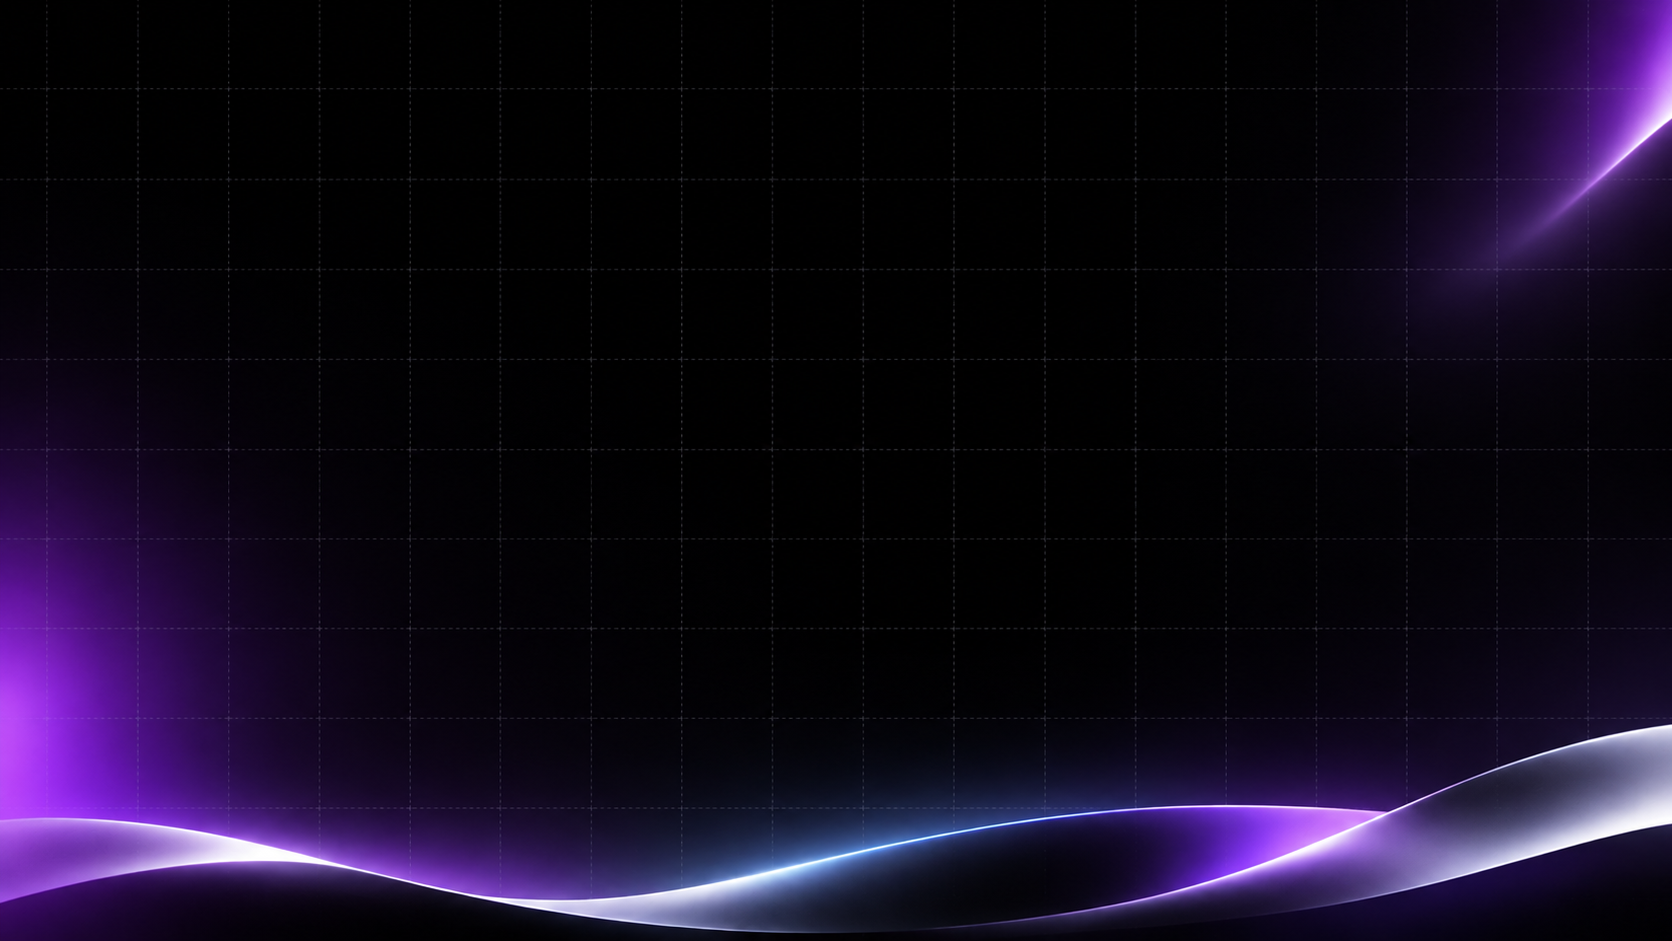
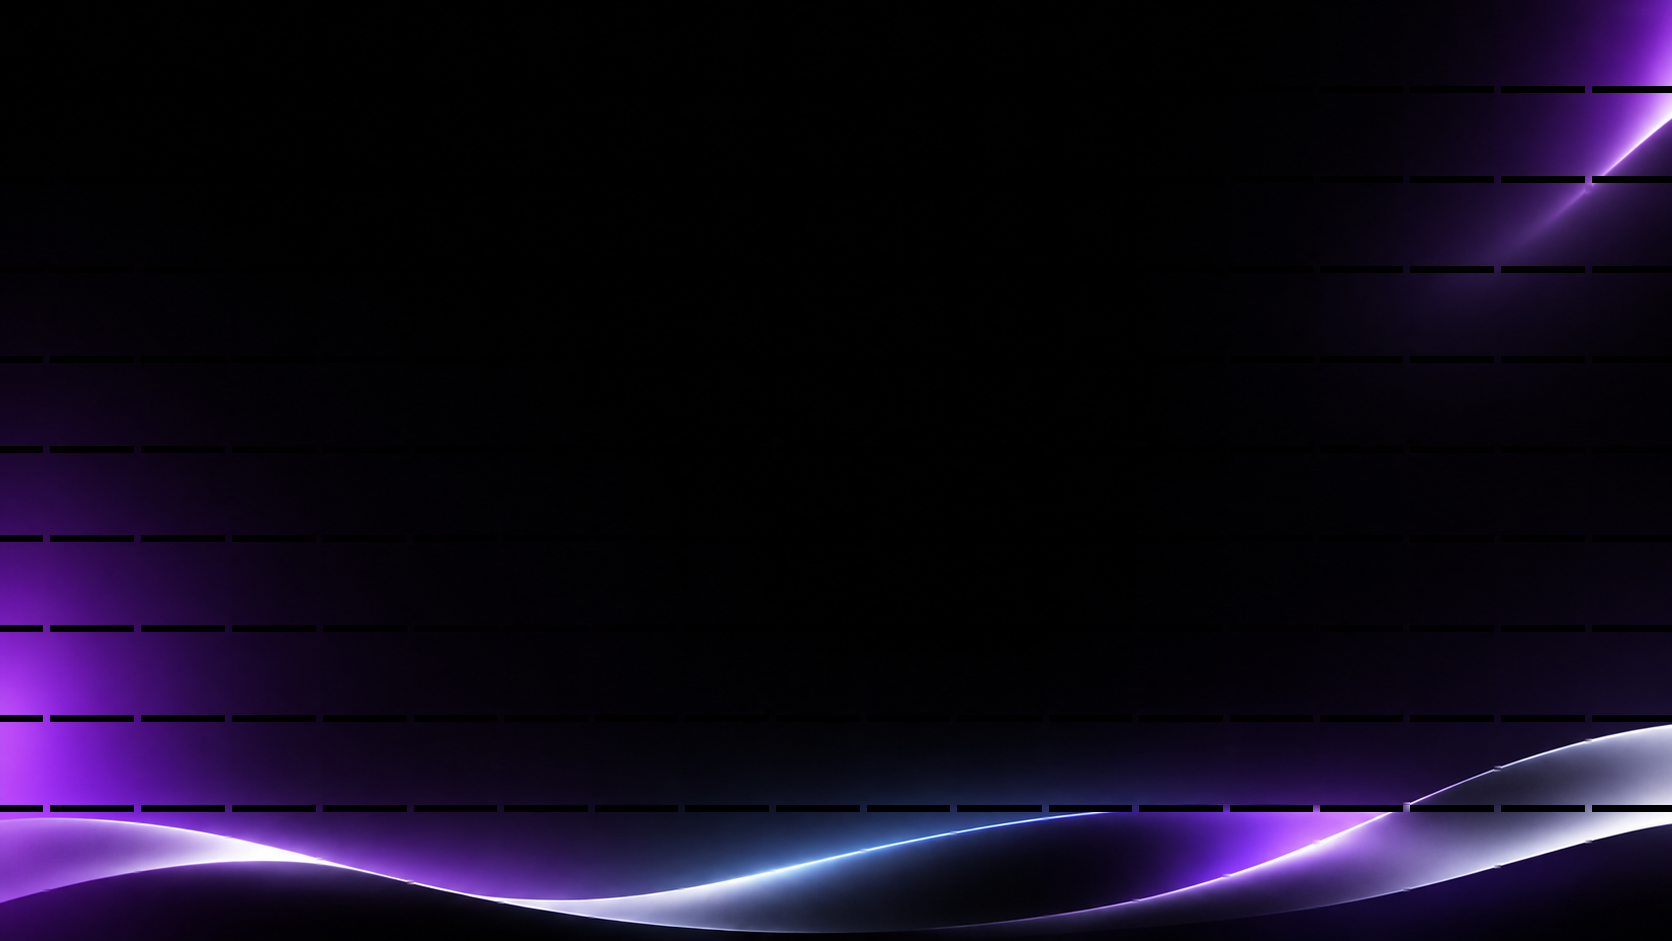
fix(hero): fit all hero elements on one screen without scroll and remove dotted square grid from bg.png

diff --git a/cinematic-experience/src/components/HeroSection.jsx b/cinematic-experience/src/components/HeroSection.jsx
@@ -126,7 +126,7 @@ export default function HeroSection({ onOpenExperience, onOpenTrial, onSelectInd
     <section
       id="home"
       ref={heroRef}
-      className="relative min-h-screen w-full flex flex-col justify-between items-center pt-32 pb-16 px-4 sm:px-6 md:px-8 overflow-hidden bg-[#050507]"
+      className="relative h-screen min-h-[600px] max-h-screen w-full flex flex-col justify-between items-center pt-20 pb-4 px-4 sm:px-6 md:px-8 overflow-hidden bg-[#050507]"
     >
       {/* 1. Underlying Metallic Wave Background (User provided bg.png) - Clean without square box grid */}
       <div
@@ -136,15 +136,15 @@ export default function HeroSection({ onOpenExperience, onOpenTrial, onSelectInd
         }}
       />
 
-      {/* 2. Central Hero Content Block */}
-      <div className="relative z-10 max-w-6xl w-full mx-auto flex flex-col items-center text-center mt-6 sm:mt-12 md:mt-16">
+      {/* 2. Central Hero Content Block (Vertically centered) */}
+      <div className="relative z-10 max-w-6xl w-full mx-auto my-auto flex flex-col items-center text-center">
         {/* Main Headline */}
         <h1
           ref={headlineRef}
           className="font-headline tracking-normal text-white uppercase text-center flex flex-col items-center justify-center select-none"
           style={{
-            lineHeight: "0.92",
-            fontSize: "clamp(2.75rem, 8vw, 7.5rem)",
+            lineHeight: "0.95",
+            fontSize: "clamp(2rem, 4.6vw, 4.5rem)",
           }}
         >
           {/* Line 1: WHATEVER YOUR INDUSTRY, */}
@@ -155,7 +155,7 @@ export default function HeroSection({ onOpenExperience, onOpenTrial, onSelectInd
           {/* Line 2: YOUR CUSTOMERS HAVE QUESTIONS. (Illuminated with radiant purple & electric blue bloom) */}
           <span
             ref={highlightRef}
-            className="block tracking-[0.02em] mt-1 sm:mt-2 text-glow-purple text-gradient-purple-blue"
+            className="block tracking-[0.02em] mt-1 sm:mt-1.5 text-glow-purple text-gradient-purple-blue"
           >
             YOUR CUSTOMERS HAVE QUESTIONS.
           </span>
@@ -164,7 +164,7 @@ export default function HeroSection({ onOpenExperience, onOpenTrial, onSelectInd
         {/* Supporting Copy */}
         <p
           ref={subtextRef}
-          className="mt-6 sm:mt-8 max-w-[820px] text-base sm:text-lg md:text-xl text-[#9898A6] font-normal leading-relaxed text-center"
+          className="mt-3 sm:mt-4 max-w-[760px] text-xs sm:text-sm md:text-base text-[#9898A6] font-normal leading-relaxed text-center"
         >
           Give every visitor a better way to connect with your business, get answers
           and discover what you offer — 24/7.
@@ -173,37 +173,37 @@ export default function HeroSection({ onOpenExperience, onOpenTrial, onSelectInd
         {/* CTA Buttons */}
         <div
           ref={ctaRef}
-          className="mt-8 sm:mt-10 flex flex-col sm:flex-row items-center justify-center gap-4 w-full sm:w-auto"
+          className="mt-5 sm:mt-6 flex flex-row items-center justify-center gap-3.5 w-auto"
         >
           {/* Primary CTA */}
           <button
             type="button"
             onClick={onOpenTrial}
-            className="w-full sm:w-auto px-8 py-4 rounded-full font-bold text-sm sm:text-base text-white btn-primary-gradient flex items-center justify-center gap-2.5 cursor-pointer shadow-[0_0_30px_rgba(150,61,255,0.4)] hover:shadow-[0_0_40px_rgba(150,61,255,0.6)]"
+            className="px-6 sm:px-8 py-3 rounded-full font-bold text-xs sm:text-sm text-white btn-primary-gradient flex items-center justify-center gap-2 cursor-pointer shadow-[0_0_30px_rgba(150,61,255,0.4)] hover:shadow-[0_0_40px_rgba(150,61,255,0.6)]"
           >
             <span>Start Free Trial</span>
-            <ArrowRight className="w-4 h-4 transition-transform duration-200 group-hover:translate-x-1" />
+            <ArrowRight className="w-3.5 h-3.5 transition-transform duration-200 group-hover:translate-x-1" />
           </button>
 
           {/* Secondary CTA: Explore the Experience */}
           <button
             type="button"
             onClick={onOpenExperience}
-            className="w-full sm:w-auto px-8 py-4 rounded-full font-semibold text-sm sm:text-base btn-secondary-glass flex items-center justify-center gap-3 cursor-pointer group"
+            className="px-6 sm:px-8 py-3 rounded-full font-semibold text-xs sm:text-sm btn-secondary-glass flex items-center justify-center gap-2.5 cursor-pointer group"
           >
-            <div className="w-5 h-5 rounded-full border border-white/60 flex items-center justify-center group-hover:border-[#C28AFF] group-hover:bg-[#963DFF]/20 transition-all">
-              <Play className="w-2.5 h-2.5 fill-current text-white group-hover:text-[#C28AFF] transition-colors ml-0.5" />
+            <div className="w-4 h-4 rounded-full border border-white/60 flex items-center justify-center group-hover:border-[#C28AFF] group-hover:bg-[#963DFF]/20 transition-all">
+              <Play className="w-2 h-2 fill-current text-white group-hover:text-[#C28AFF] transition-colors ml-0.5" />
             </div>
             <span>Explore the Experience</span>
           </button>
         </div>
       </div>
 
-      {/* 6. Industry Showcase Strip (Horizontal desktop bar / Mobile responsive) */}
-      <div className="relative z-10 w-full max-w-5xl mx-auto mt-14 sm:mt-20">
+      {/* 6. Industry Showcase Strip (Sits gracefully above the metallic wave at bottom of viewport) */}
+      <div className="relative z-10 w-full max-w-5xl mx-auto mb-2 sm:mb-4 shrink-0">
         <div
           ref={industriesRef}
-          className="flex flex-wrap md:flex-nowrap items-center justify-center gap-2.5 sm:gap-3 p-2 rounded-2xl md:rounded-full bg-black/40 backdrop-blur-xl border border-white/[0.08] shadow-[0_16px_36px_rgba(0,0,0,0.6)]"
+          className="flex flex-wrap md:flex-nowrap items-center justify-center gap-2 sm:gap-3 p-1.5 sm:p-2 rounded-2xl md:rounded-full bg-black/50 backdrop-blur-xl border border-white/[0.08] shadow-[0_16px_36px_rgba(0,0,0,0.6)]"
         >
           {industries.map((ind, idx) => {
             const Icon = ind.icon;
@@ -212,9 +212,9 @@ export default function HeroSection({ onOpenExperience, onOpenTrial, onSelectInd
                 <button
                   type="button"
                   onClick={() => onSelectIndustry?.(ind.id)}
-                  className="group flex items-center gap-2.5 px-4 sm:px-5 py-2.5 rounded-xl md:rounded-full bg-white/[0.025] hover:bg-white/[0.08] border border-white/[0.06] hover:border-[#963DFF]/50 transition-all duration-300 cursor-pointer hover:shadow-[0_0_20px_rgba(150,61,255,0.25)] hover:-translate-y-0.5 active:translate-y-0"
+                  className="group flex items-center gap-2 px-3 sm:px-4 py-1.5 sm:py-2 rounded-xl md:rounded-full bg-white/[0.025] hover:bg-white/[0.08] border border-white/[0.06] hover:border-[#963DFF]/50 transition-all duration-300 cursor-pointer hover:shadow-[0_0_20px_rgba(150,61,255,0.25)] hover:-translate-y-0.5 active:translate-y-0"
                 >
-                  <Icon className="w-4 h-4 text-[#D9D9E2] group-hover:text-[#C28AFF] transition-colors duration-200 shrink-0" />
+                  <Icon className="w-3.5 h-3.5 text-[#D9D9E2] group-hover:text-[#C28AFF] transition-colors duration-200 shrink-0" />
                   <span className="text-xs sm:text-sm font-semibold text-[#D9D9E2] group-hover:text-white transition-colors duration-200 whitespace-nowrap">
                     {ind.label}
                   </span>
@@ -222,16 +222,13 @@ export default function HeroSection({ onOpenExperience, onOpenTrial, onSelectInd
 
                 {/* Thin vertical separator between items on desktop */}
                 {idx < industries.length - 1 && (
-                  <div className="hidden md:block w-px h-5 bg-white/10" />
+                  <div className="hidden md:block w-px h-4 bg-white/10" />
                 )}
               </React.Fragment>
             );
           })}
         </div>
       </div>
-
-      {/* 7. Bottom Anchor Ambient Light Sweep */}
-      <div className="relative z-10 w-full h-8 mt-6 pointer-events-none" />
     </section>
   );
 }

diff --git a/frontend/app/page.js b/frontend/app/page.js
@@ -307,7 +307,7 @@ export default function HomePage() {
       {/* 2. HERO SECTION */}
       <section
         id="home"
-        className="relative min-h-screen w-full flex flex-col justify-between items-center pt-32 pb-16 px-4 sm:px-6 md:px-8 overflow-hidden bg-[#050507]"
+        className="relative h-screen min-h-[600px] max-h-screen w-full flex flex-col justify-between items-center pt-20 pb-4 px-4 sm:px-6 md:px-8 overflow-hidden bg-[#050507]"
       >
         {/* User's Exact Clean Background - Pure bg.png without artificial square box grids */}
         <div
@@ -315,53 +315,53 @@ export default function HomePage() {
           style={{ backgroundImage: `url('/bg.png')` }}
         />
 
-        {/* Central Hero Headline & CTA */}
-        <div className="relative z-10 max-w-6xl w-full mx-auto flex flex-col items-center text-center mt-6 sm:mt-12 md:mt-16">
+        {/* Central Hero Headline & CTA (Centered vertically in hero viewport) */}
+        <div className="relative z-10 max-w-6xl w-full mx-auto my-auto flex flex-col items-center text-center">
           <h1
             className="font-headline tracking-normal text-white uppercase text-center flex flex-col items-center justify-center select-none"
             style={{
-              lineHeight: "0.92",
-              fontSize: "clamp(2.75rem, 8vw, 7.5rem)",
+              lineHeight: "0.95",
+              fontSize: "clamp(2rem, 4.6vw, 4.5rem)",
             }}
           >
             <span className="block text-[#F5F5F7] tracking-[0.02em] drop-shadow-[0_4px_16px_rgba(0,0,0,0.8)]">
               WHATEVER YOUR INDUSTRY,
             </span>
-            <span className="block tracking-[0.02em] mt-1 sm:mt-2 text-glow-purple text-gradient-purple-blue">
+            <span className="block tracking-[0.02em] mt-1 sm:mt-1.5 text-glow-purple text-gradient-purple-blue">
               YOUR CUSTOMERS HAVE QUESTIONS.
             </span>
           </h1>
 
-          <p className="mt-6 sm:mt-8 max-w-[820px] text-base sm:text-lg md:text-xl text-[#9898A6] font-normal leading-relaxed text-center">
+          <p className="mt-3 sm:mt-4 max-w-[760px] text-xs sm:text-sm md:text-base text-[#9898A6] font-normal leading-relaxed text-center">
             Give every visitor a better way to connect with your business, get answers
             and discover what you offer — 24/7.
           </p>
 
-          <div className="mt-8 sm:mt-10 flex flex-col sm:flex-row items-center justify-center gap-4 w-full sm:w-auto">
+          <div className="mt-5 sm:mt-6 flex flex-row items-center justify-center gap-3.5 w-auto">
             <Link
               href={isAuthenticated ? "/dashboard" : "/register"}
-              className="w-full sm:w-auto px-8 py-4 rounded-full font-bold text-sm sm:text-base text-white btn-primary-gradient flex items-center justify-center gap-2.5 cursor-pointer shadow-[0_0_30px_rgba(150,61,255,0.4)] hover:shadow-[0_0_40px_rgba(150,61,255,0.6)]"
+              className="px-6 sm:px-8 py-3 rounded-full font-bold text-xs sm:text-sm text-white btn-primary-gradient flex items-center justify-center gap-2 cursor-pointer shadow-[0_0_30px_rgba(150,61,255,0.4)] hover:shadow-[0_0_40px_rgba(150,61,255,0.6)]"
             >
               <span>{isAuthenticated ? "Launch Dashboard" : "Start Free Trial"}</span>
-              <ArrowRight className="w-4 h-4" />
+              <ArrowRight className="w-3.5 h-3.5" />
             </Link>
 
             <button
               type="button"
               onClick={() => handleOpenExperience("real-estate")}
-              className="w-full sm:w-auto px-8 py-4 rounded-full font-semibold text-sm sm:text-base btn-secondary-glass flex items-center justify-center gap-3 cursor-pointer group"
+              className="px-6 sm:px-8 py-3 rounded-full font-semibold text-xs sm:text-sm btn-secondary-glass flex items-center justify-center gap-2.5 cursor-pointer group"
             >
-              <div className="w-5 h-5 rounded-full border border-white/60 flex items-center justify-center group-hover:border-[#C28AFF] group-hover:bg-[#963DFF]/20 transition-all">
-                <Play className="w-2.5 h-2.5 fill-current text-white group-hover:text-[#C28AFF] transition-colors ml-0.5" />
+              <div className="w-4 h-4 rounded-full border border-white/60 flex items-center justify-center group-hover:border-[#C28AFF] group-hover:bg-[#963DFF]/20 transition-all">
+                <Play className="w-2 h-2 fill-current text-white group-hover:text-[#C28AFF] transition-colors ml-0.5" />
               </div>
               <span>Explore the Experience</span>
             </button>
           </div>
         </div>
 
-        {/* 6 Industry Showcase Strip */}
-        <div className="relative z-10 w-full max-w-5xl mx-auto mt-14 sm:mt-20">
-          <div className="flex flex-wrap md:flex-nowrap items-center justify-center gap-2.5 sm:gap-3 p-2 rounded-2xl md:rounded-full bg-black/40 backdrop-blur-xl border border-white/[0.08] shadow-[0_16px_36px_rgba(0,0,0,0.6)]">
+        {/* 6 Industry Showcase Strip (Sits gracefully above the metallic wave at bottom of viewport) */}
+        <div className="relative z-10 w-full max-w-5xl mx-auto mb-2 sm:mb-4 shrink-0">
+          <div className="flex flex-wrap md:flex-nowrap items-center justify-center gap-2 sm:gap-3 p-1.5 sm:p-2 rounded-2xl md:rounded-full bg-black/50 backdrop-blur-xl border border-white/[0.08] shadow-[0_16px_36px_rgba(0,0,0,0.6)]">
             {industriesHero.map((ind, idx) => {
               const Icon = ind.icon;
               return (
@@ -369,23 +369,21 @@ export default function HomePage() {
                   <button
                     type="button"
                     onClick={() => handleOpenExperience(ind.id)}
-                    className="group flex items-center gap-2.5 px-4 sm:px-5 py-2.5 rounded-xl md:rounded-full bg-white/[0.025] hover:bg-white/[0.08] border border-white/[0.06] hover:border-[#963DFF]/50 transition-all duration-300 cursor-pointer hover:shadow-[0_0_20px_rgba(150,61,255,0.25)] hover:-translate-y-0.5 active:translate-y-0"
+                    className="group flex items-center gap-2 px-3 sm:px-4 py-1.5 sm:py-2 rounded-xl md:rounded-full bg-white/[0.025] hover:bg-white/[0.08] border border-white/[0.06] hover:border-[#963DFF]/50 transition-all duration-300 cursor-pointer hover:shadow-[0_0_20px_rgba(150,61,255,0.25)] hover:-translate-y-0.5 active:translate-y-0"
                   >
-                    <Icon className="w-4 h-4 text-[#D9D9E2] group-hover:text-[#C28AFF] transition-colors duration-200 shrink-0" />
+                    <Icon className="w-3.5 h-3.5 text-[#D9D9E2] group-hover:text-[#C28AFF] transition-colors duration-200 shrink-0" />
                     <span className="text-xs sm:text-sm font-semibold text-[#D9D9E2] group-hover:text-white transition-colors duration-200 whitespace-nowrap">
                       {ind.label}
                     </span>
                   </button>
                   {idx < industriesHero.length - 1 && (
-                    <div className="hidden md:block w-px h-5 bg-white/10" />
+                    <div className="hidden md:block w-px h-4 bg-white/10" />
                   )}
                 </React.Fragment>
               );
             })}
           </div>
         </div>
-
-        <div className="relative z-10 w-full h-8 mt-6 pointer-events-none" />
       </section>
 
       {/* 3. SCROLL-PINNED MOSAIC INDUSTRIES SECTION */}
